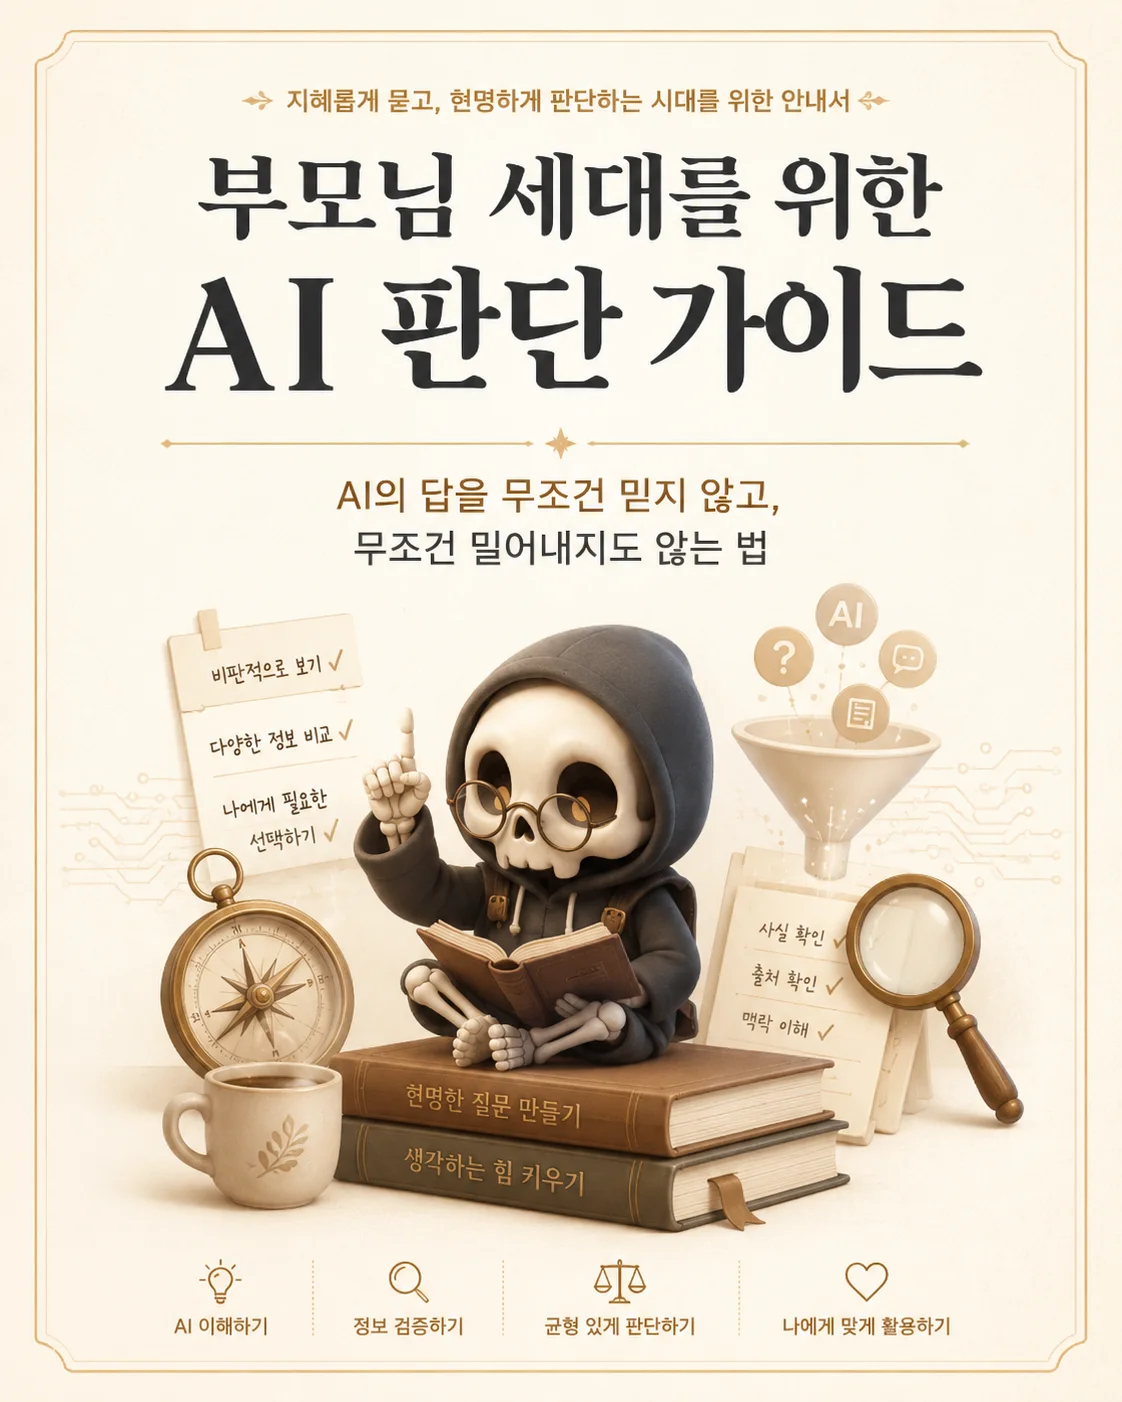
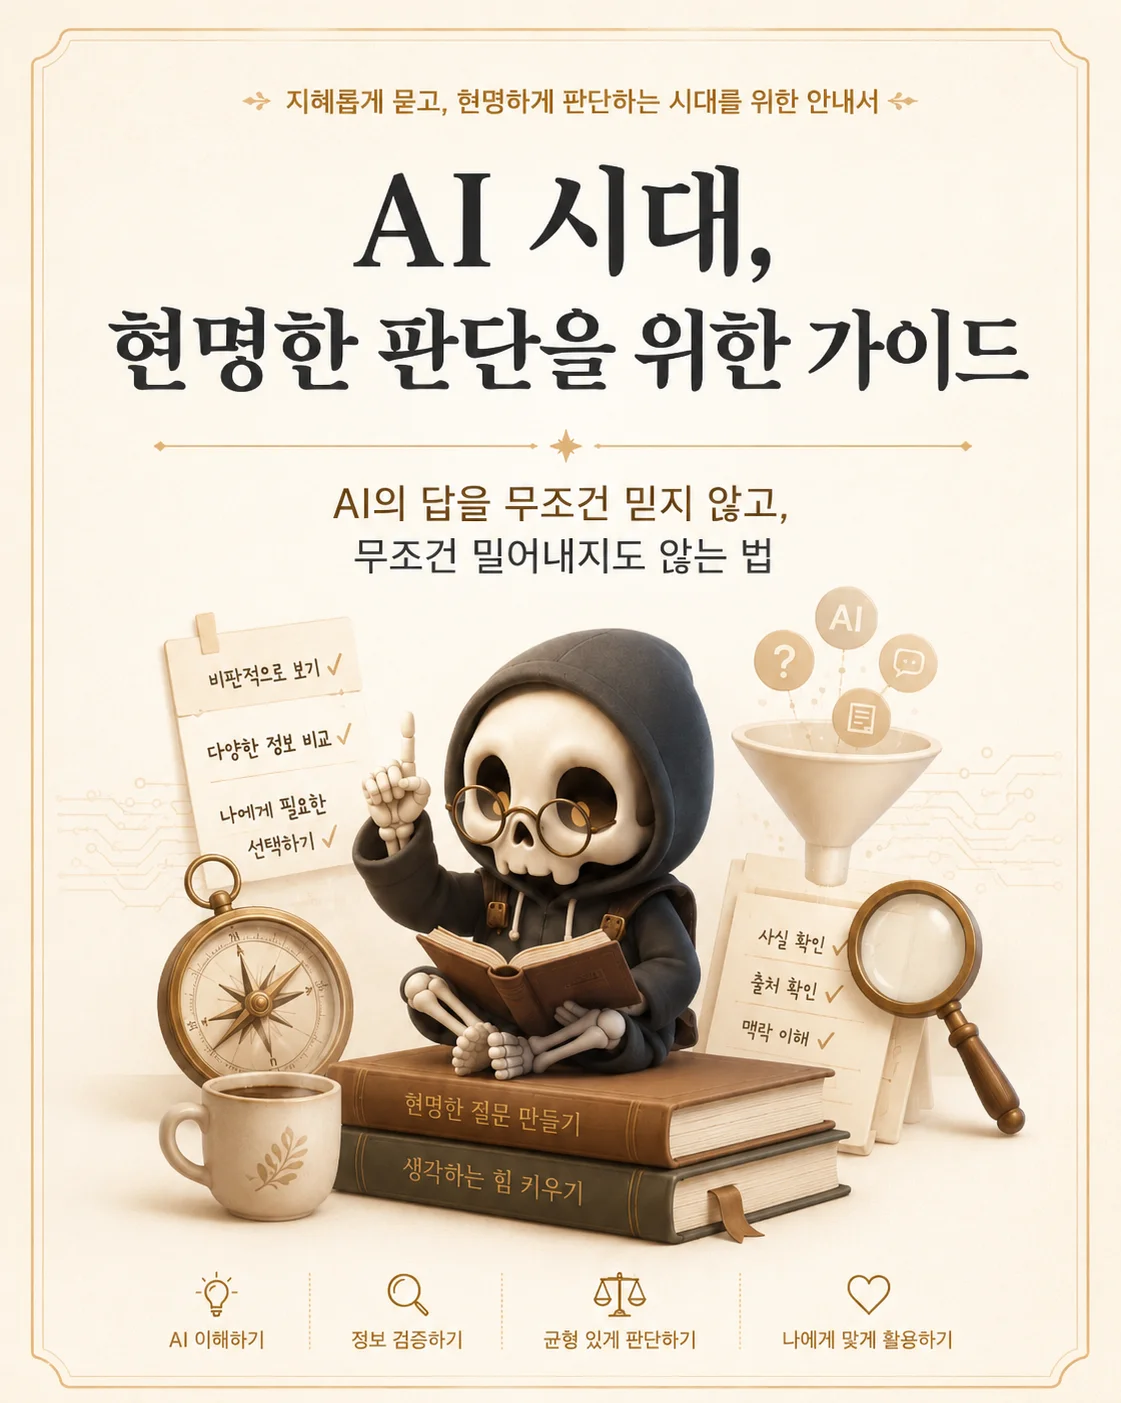
Update AI guide download positioning

diff --git a/src/app/downloads/parents-ai-guide/page.tsx b/src/app/downloads/parents-ai-guide/page.tsx
@@ -1,17 +1,18 @@
 import type { Metadata } from 'next';
 import Image from 'next/image';
 
+const DOWNLOAD_DESCRIPTION =
+  'AI에 낯선 사람들이 AI를 제대로 이해할 수 있도록 정리한 무료 전자책입니다.';
+
 export const metadata: Metadata = {
-  title: '부모님 세대를 위한 AI 판단 가이드',
-  description:
-    'AI 부업, 자동화, 프롬프트, 에이전트, 개인정보까지. 2026년 5월 기준, 부모님 세대가 AI를 걸러서 이해할 수 있도록 정리한 무료 전자책입니다.',
+  title: 'AI가 낯선 사람들을 위한 AI 이해 가이드',
+  description: DOWNLOAD_DESCRIPTION,
   alternates: {
     canonical: 'https://dechive.dev/downloads/parents-ai-guide',
   },
   openGraph: {
-    title: '부모님 세대를 위한 AI 판단 가이드 | Dechive',
-    description:
-      'AI 부업, 자동화, 프롬프트, 에이전트, 개인정보까지. 2026년 5월 기준, 부모님 세대가 AI를 걸러서 이해할 수 있도록 정리한 무료 전자책입니다.',
+    title: 'AI가 낯선 사람들을 위한 AI 이해 가이드 | Dechive',
+    description: DOWNLOAD_DESCRIPTION,
     url: 'https://dechive.dev/downloads/parents-ai-guide',
     siteName: 'Dechive',
     locale: 'ko_KR',
@@ -21,15 +22,14 @@ export const metadata: Metadata = {
         url: 'https://dechive.dev/downloads/parents-ai-guide-cover.webp',
         width: 1200,
         height: 630,
-        alt: '부모님 세대를 위한 AI 판단 가이드',
+        alt: 'AI가 낯선 사람들을 위한 AI 이해 가이드',
       },
     ],
   },
   twitter: {
     card: 'summary_large_image',
-    title: '부모님 세대를 위한 AI 판단 가이드 | Dechive',
-    description:
-      'AI 부업, 자동화, 프롬프트, 에이전트, 개인정보까지. 2026년 5월 기준, 부모님 세대가 AI를 걸러서 이해할 수 있도록 정리한 무료 전자책입니다.',
+    title: 'AI가 낯선 사람들을 위한 AI 이해 가이드 | Dechive',
+    description: DOWNLOAD_DESCRIPTION,
     images: ['https://dechive.dev/downloads/parents-ai-guide-cover.webp'],
   },
 };
@@ -44,8 +44,8 @@ const COVERS = [
 ];
 
 const AUDIENCE = [
-  'AI를 처음 배우는 40·50·60대',
-  '부모님께 AI를 설명해드리고 싶은 자녀',
+  'AI를 처음 배우는 사람',
+  'AI를 어디까지 믿어야 할지 헷갈리는 사람',
   'AI 부업 광고가 헷갈리는 사람',
   'AI를 무조건 믿지도, 무조건 거부하지도 않고 제대로 이해하고 싶은 사람',
 ];
@@ -57,7 +57,7 @@ function DownloadButton() {
       target="_blank"
       rel="noopener noreferrer"
       download
-      aria-label="부모님 세대를 위한 AI 판단 가이드 PDF 무료 다운로드"
+      aria-label="AI가 낯선 사람들을 위한 AI 이해 가이드 PDF 무료 다운로드"
       className="inline-flex items-center gap-2 rounded-sm bg-[#2a211b] px-7 py-3.5 text-sm font-medium tracking-wide text-[#f8f6f1] transition-colors hover:bg-[#19140f]"
     >
       <svg
@@ -106,9 +106,9 @@ export default function ParentsAiGuidePage() {
                 Dechive · 무료 전자책
               </p>
               <h1 className="mb-3 font-[family-name:var(--font-header-serif)] text-4xl font-semibold leading-snug tracking-tight text-[#17120d] sm:text-5xl">
-                부모님 세대를 위한
+                AI가 낯선 사람들을 위한
                 <br />
-                AI 판단 가이드
+                AI 이해 가이드
               </h1>
               <p className="text-base leading-relaxed text-[#5f564d]">
                 AI의 답을 무조건 믿지 않고,
@@ -120,7 +120,7 @@ export default function ParentsAiGuidePage() {
             <p className="text-sm leading-loose text-[#5f564d]">
               AI 부업, 자동화, 프롬프트, 에이전트, 개인정보까지.
               <br />
-              2026년 5월 기준, 부모님 세대가 AI를 걸러서 이해할 수 있도록 정리한 무료 전자책입니다.
+              {DOWNLOAD_DESCRIPTION}
             </p>
 
             <div className="flex items-center gap-4">
@@ -134,7 +134,7 @@ export default function ParentsAiGuidePage() {
             <div className="relative aspect-[3/4] w-full overflow-hidden rounded-sm border border-[#9a7a3f]/20 bg-[#efe7da]/60 shadow-[0_32px_64px_rgba(42,33,27,0.14)]">
               <Image
                 src="/downloads/parents-ai-guide-cover.webp"
-                alt="부모님 세대를 위한 AI 판단 가이드 표지"
+                alt="AI가 낯선 사람들을 위한 AI 이해 가이드 표지"
                 fill
                 className="object-cover"
                 sizes="(max-width: 768px) 220px, 240px"
@@ -219,10 +219,10 @@ export default function ParentsAiGuidePage() {
         <section className="mx-auto max-w-2xl">
           <blockquote className="rounded-sm border border-[#9a7a3f]/20 bg-white/50 px-7 py-6">
             <p className="text-sm leading-loose text-[#2a211b]">
-              "이 책은 AI를 무조건 두려워하거나 맹신하지 말고, 스스로 판단하며 걸러서 받아들이는
+              &ldquo;이 책은 AI를 무조건 두려워하거나 맹신하지 말고, 스스로 판단하며 걸러서 받아들이는
               힘을 길러야 한다는 메시지를 전달한 점이 인상 깊었습니다. 빠르게 발전하는 AI 시대에서는
               단순히 기술을 익히는 것보다, 정보를 직접 확인하고 비판적으로 생각하는 습관이 더
-              중요하다는 내용이 특히 마음에 남았습니다."
+              중요하다는 내용이 특히 마음에 남았습니다.&rdquo;
             </p>
             <footer className="mt-4 text-xs text-[#9a7a3f]">— 10년차 풀스택 개발자 윤*현</footer>
           </blockquote>

diff --git a/src/components/home/HomeClient.tsx b/src/components/home/HomeClient.tsx
@@ -36,7 +36,7 @@ const homeCopy = {
     soloAgileLabel: 'Solo Agile',
     soloAgile: ['1인기업시대,', '회고는 필요없는것인가'],
     archiveLabel: '무료 전자책',
-    archive: ['부모님,', '이건 알아야해요'],
+    archive: ['AI가 낯선 사람을', '위한 무료 전자책'],
     thinkingEyebrow: 'How Dechive Thinks',
     thinkingTitle: 'Dechive는 질문의 깊이에 따라 기록을 나눕니다.',
     thinkingDescription: 'Archive는 하나의 질문을 독립된 기록으로 남기고, Deep Dive는 더 깊은 질문을 길게 밀고 갑니다.',
@@ -87,7 +87,7 @@ const homeCopy = {
     soloAgileLabel: 'Solo Agile',
     soloAgile: ['In the solo business era,', 'is reflection unnecessary?'],
     archiveLabel: 'Free Ebook',
-    archive: ['What parents need', 'to know about AI'],
+    archive: ['A free ebook', 'for AI newcomers'],
     thinkingEyebrow: 'How Dechive Thinks',
     thinkingTitle: 'Dechive separates records by the depth of the question.',
     thinkingDescription: 'Archive keeps one question as an independent record. Deep Dive carries a deeper question through a longer chain of reasoning.',